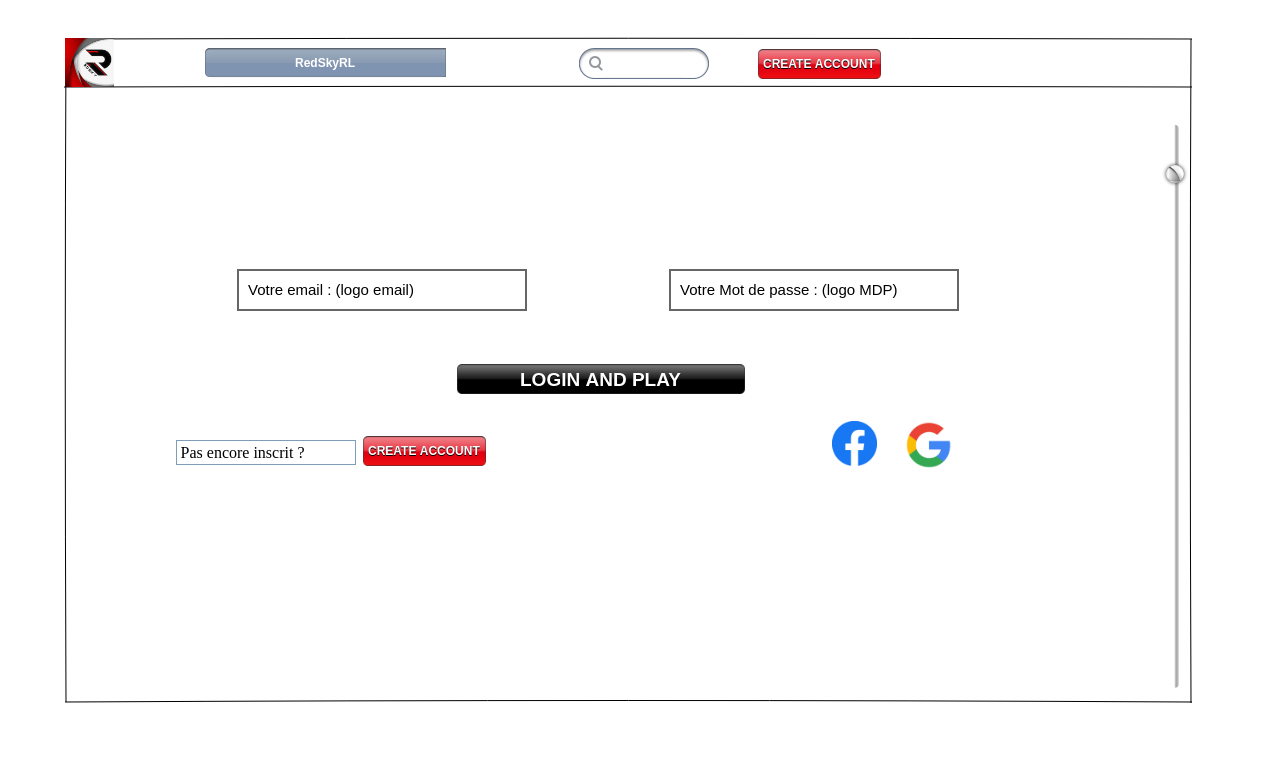
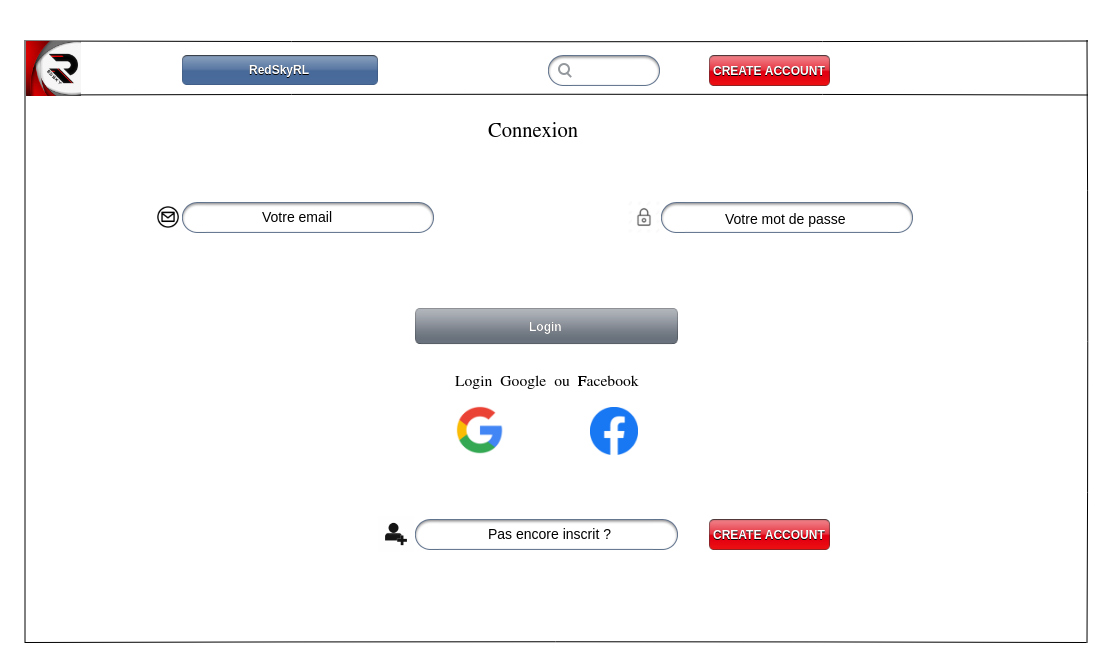
remake maquettes

diff --git a/README.md b/README.md
@@ -87,8 +87,6 @@ Have fun Enjoy !
 ![Maquette Full Accueil Deco](www/public/assets/img/FullAccueilHautDeco.jpg)
 ## Vue du haut de la page home connecter
 ![Maquette Full Accueil Co](www/public/assets/img/FullAccueilHautCo.jpg)
-## Vue de la home une fois scroll
-![Maquette Full Accueil Scroll](www/public/assets/img/FullVueHomeScroll.jpg)
 ## Page de connexion
 ![Maquette Full Login](www/public/assets/img/FullLogin.jpg)
 ## Page Inscription
